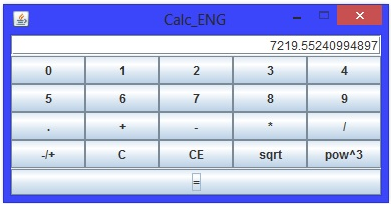
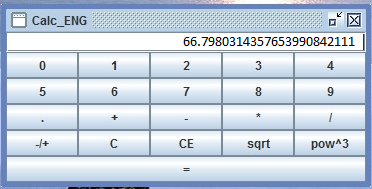
new Calc();

diff --git a/Calc.java b/Calc.java
@@ -154,6 +154,7 @@ else {String  iL=ib.getText();
 }	
 @SuppressWarnings("unused")
 public static void main(String[] args) {
-      Calc calc = new Calc();
+    JFrame.setDefaultLookAndFeelDecorated(true);
+       new Calc();
         }
  }
